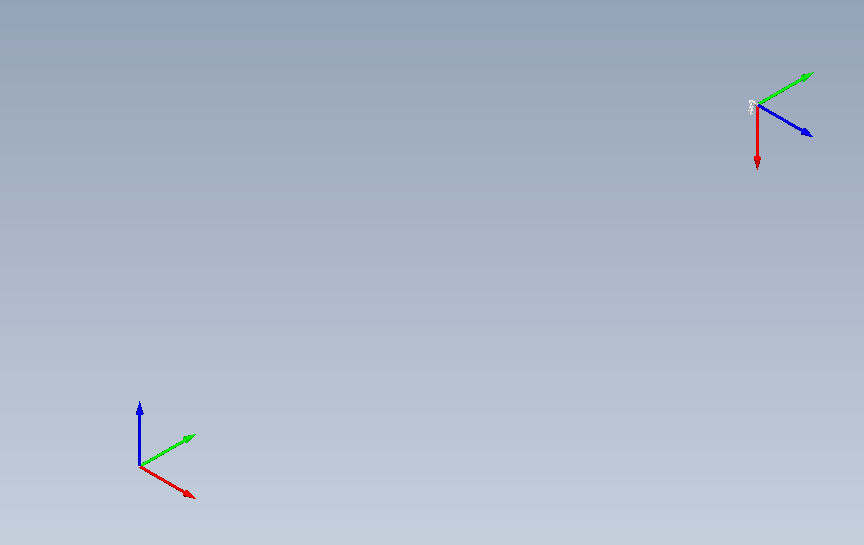
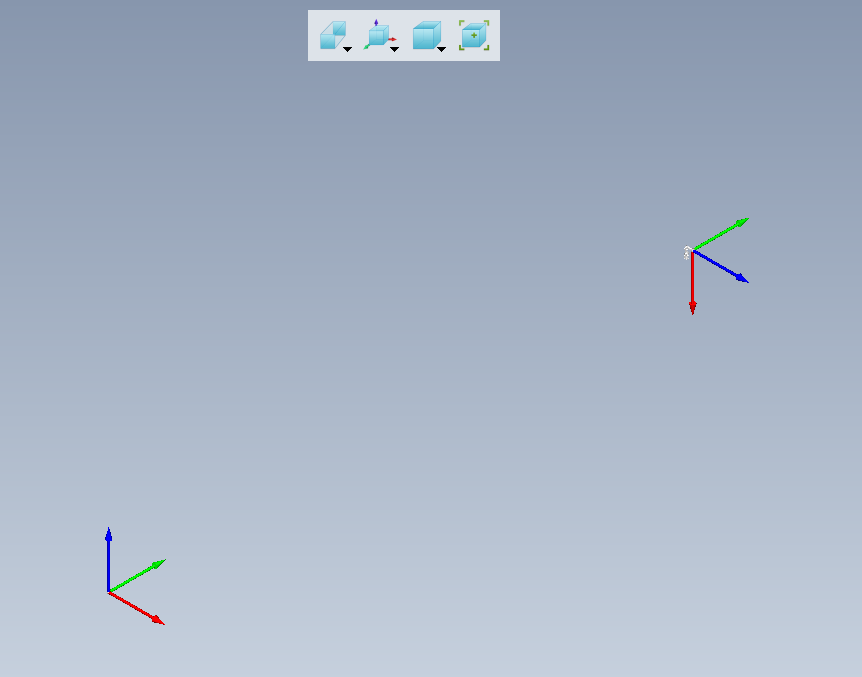
用例脚本调试均正常

diff --git a/Pages/Engineer.py b/Pages/Engineer.py
@@ -237,9 +237,7 @@ class Engineer:
         "assert_test_case_078": r"TempImage/断言/test_case_078.png",
         "assert_test_case_078_1": r"TempImage/断言/test_case_078_1.png",
         "assert_test_case_079": r"TempImage/断言/test_case_079.png",
-        "assert_test_case_079_1": r"TempImage/断言/test_case_079_1.png",
-        
-        
+        "assert_test_case_079_1": r"TempImage/断言/test_case_079_1.png",   
     }
 
     def __init__(self, common_instance=None):
@@ -272,6 +270,10 @@ class Engineer:
         if not image_path:
             raise ValueError(f"未找到图片关键字: {image_key}")
         self.common.input_text(image_path, input_str, operation or f"输入{input_str}", timeout=timeout, **kwargs)
+
+    @allure.step("{operation}")
+    def swipe(self, start_pos, end_pos, operation="", duration=0.5):
+        return self.common.swipe(start_pos, end_pos, operation, duration)
 
     
 

diff --git a/TestCases/test_case_01.py b/TestCases/test_case_01.py
@@ -12,7 +12,7 @@ from Common.AllurePretty import PrettyAllure
 from Pages.Engineer import Engineer
 from Common.Common import Common
 
-yaml_data = ReadYaml(os.path.join(Config.test_datas_dir, "test_data_01.yaml")).read(slice(71,73))
+yaml_data = ReadYaml(os.path.join(Config.test_datas_dir, "test_data_01.yaml")).read(slice(0,79))
 com = Common()
 eng = Engineer(common_instance=com)
 
